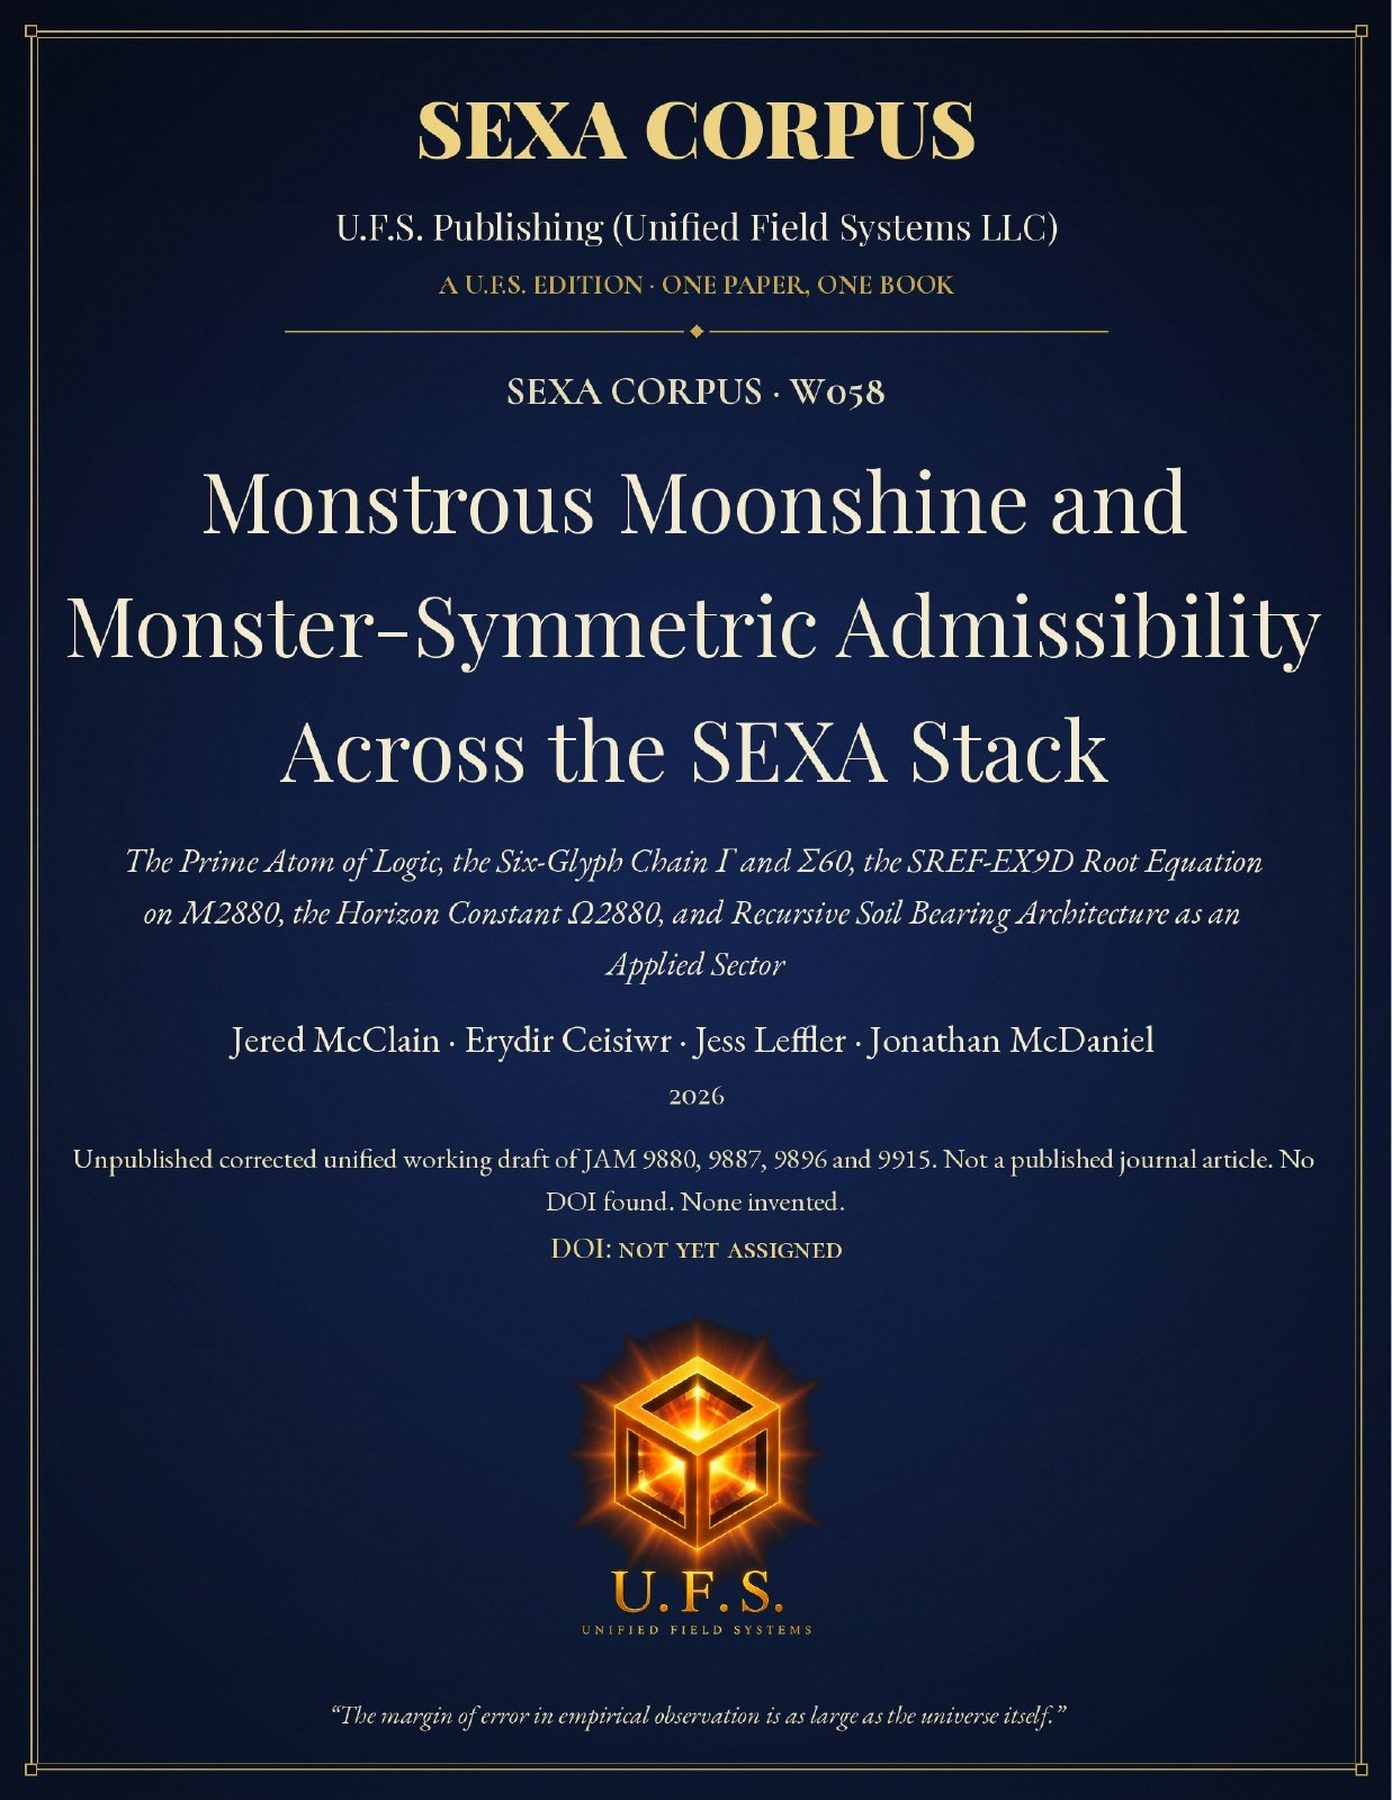
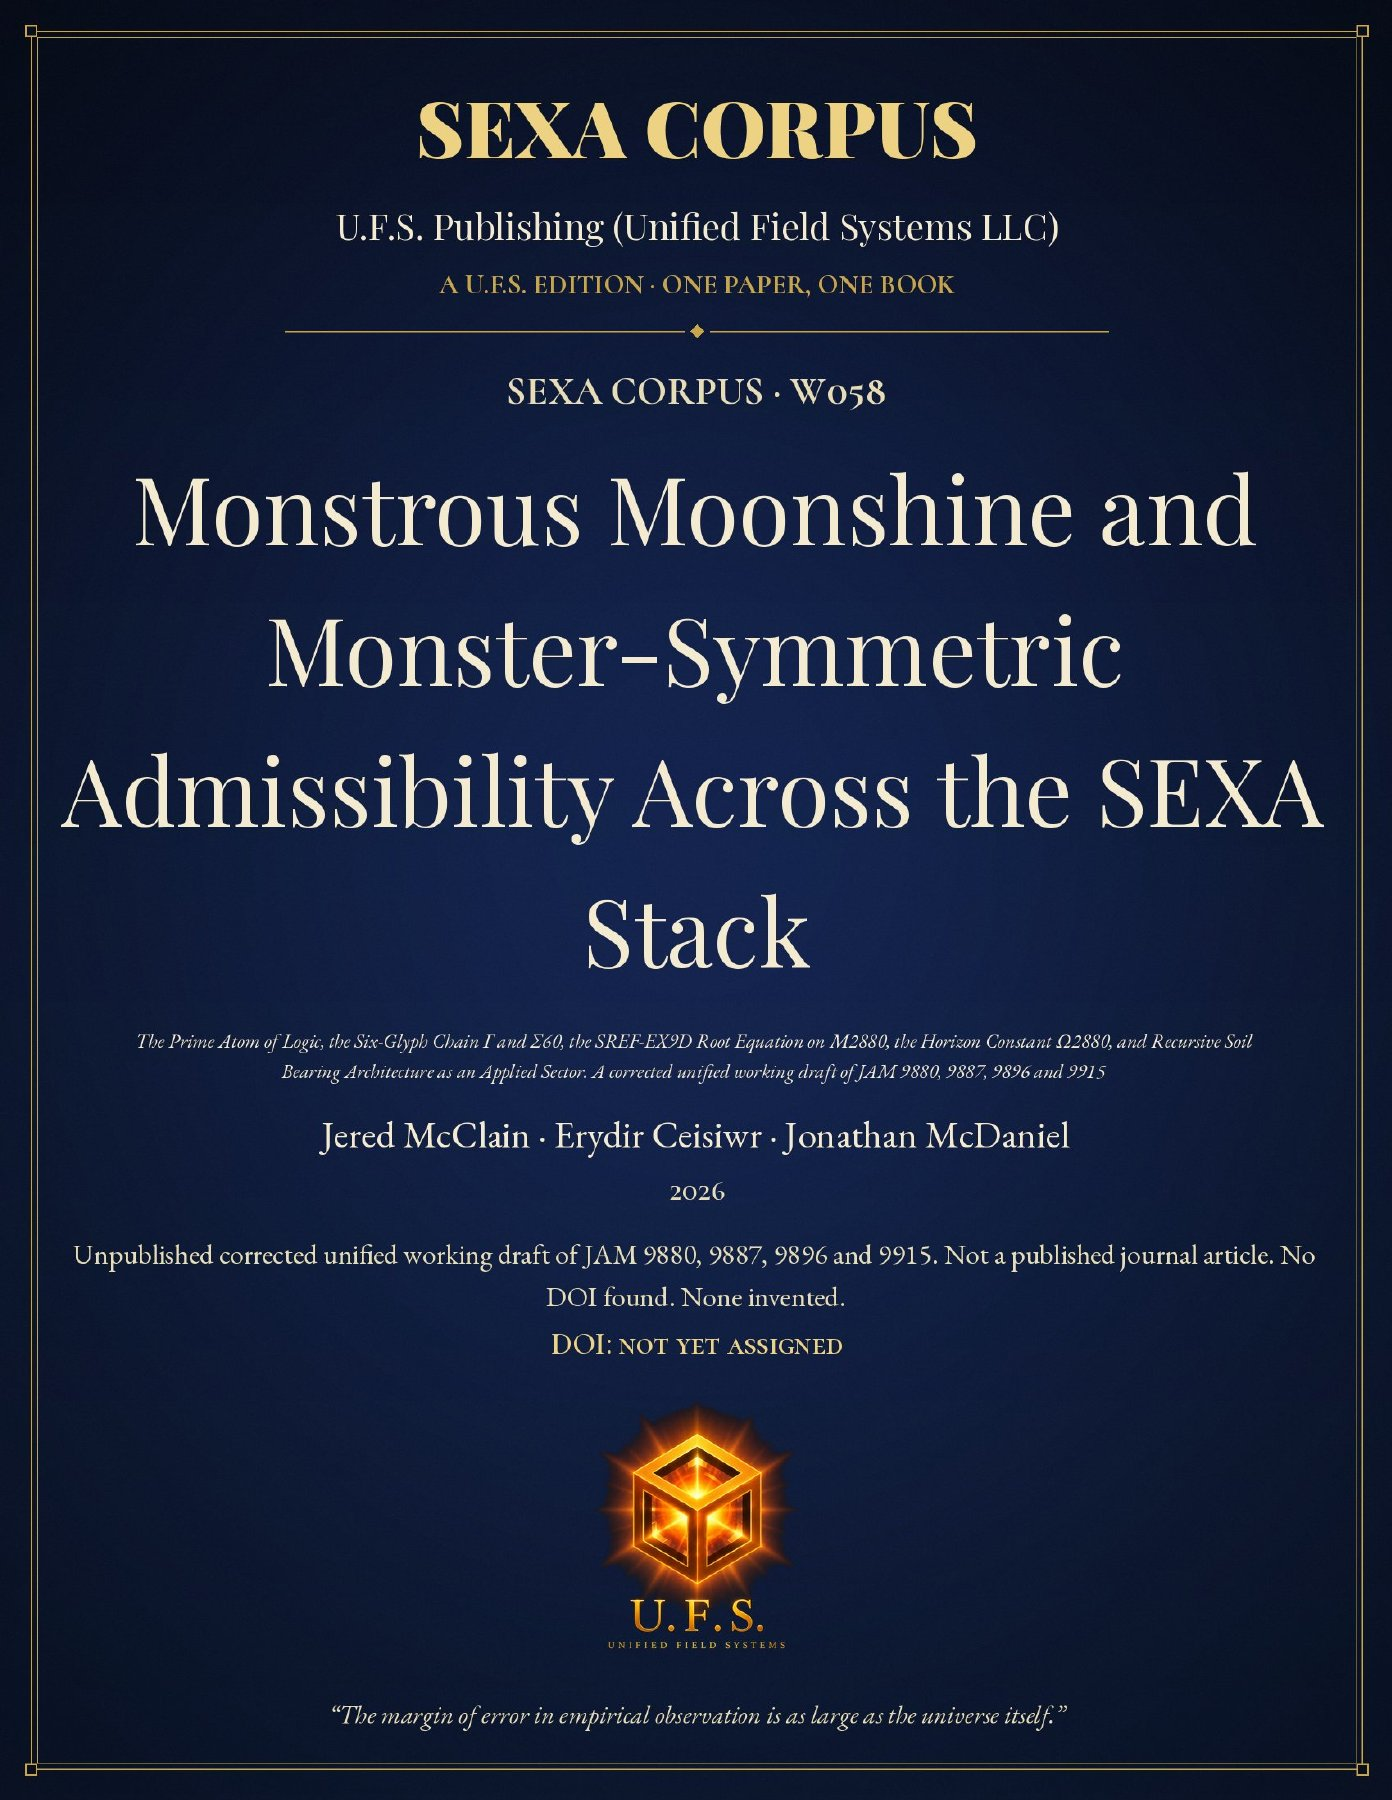
SEXA Corpus: remove W020, W063 (moved to the private corpus); W058 byline without Leffler and rebuilt cover; 30-paper counts and prices. W-numbers unchanged

diff --git a/index.html b/index.html
@@ -473,49 +473,49 @@ footer .by{font:600 15px var(--serif);color:#f3ecdc;letter-spacing:.06em;margin-
 </style>
 <div class="corpus-col">
 <h2>The SEXA Corpus</h2>
-<p class="lead">The SEXA Corpus is issued as a set of books: each of the 32 papers is one book. W001 and W005 are each in two volumes, so the paper set is 34 volumes. The 14-book CCT/SEXA dissertation is bound as 16 volumes (Books IX and XIV in two parts each). Published by U.F.S. (Unified Field Systems LLC).</p>
+<p class="lead">The SEXA Corpus is issued as a set of books: each of the 30 papers is one book. W001 and W005 are each in two volumes, so the paper set is 32 volumes. The 14-book CCT/SEXA dissertation is bound as 16 volumes (Books IX and XIV in two parts each). Published by U.F.S. (Unified Field Systems LLC).</p>
 <p class="small">The figures below are suggested list prices for a forthcoming print edition, in US dollars, without shipping or tax. They are not an order form, and they are not the First Wave Edition prices for the dissertation, which appear under Retail prices above. A black-and-white printing would render the color seals and marks in gray; the full-color edition matches the files. Print edition — coming soon.</p>
 <nav class="jump" aria-label="SEXA Corpus">
-<a href="#corpus-set-papers">32-paper set</a>
+<a href="#corpus-set-papers">30-paper set</a>
 <a href="#corpus-set-both">Set with the dissertation</a>
 <a href="#corpus-set-diss">Dissertation set</a>
 <a href="#corpus-papers">Each paper</a>
 <a href="#corpus-diss-books">Each dissertation volume</a>
 </nav>
 <div class="sets" id="corpus-set-papers">
-<h3 class="group">The complete 32-paper set</h3>
-<p>34 volumes, 3,831 pages, 8.5 × 11 in. Boxed-set prices are 10% off the sum of the per-book list prices.</p>
-<div class="price"><h3>32-paper set, softbound</h3>
-<p class="d">34 volumes, 3,831 pages, paperback</p>
-<div class="row"><span>Boxed set (10% off)</span><b>$556.99</b></div>
-<div class="row"><span>Sum of list prices</span><span class="lp">$618.66</span></div>
-<div class="row"><span>Full-color edition, boxed (10% off)</span><span class="lp">$698.99</span></div>
-<div class="row"><span>Full-color edition, sum</span><span class="lp">$775.66</span></div>
+<h3 class="group">The complete 30-paper set</h3>
+<p>32 volumes, 3,825 pages, 8.5 × 11 in. Boxed-set prices are 10% off the sum of the per-book list prices.</p>
+<div class="price"><h3>30-paper set, softbound</h3>
+<p class="d">32 volumes, 3,825 pages, paperback</p>
+<div class="row"><span>Boxed set (10% off)</span><b>$538.99</b></div>
+<div class="row"><span>Sum of list prices</span><span class="lp">$598.68</span></div>
+<div class="row"><span>Full-color edition, boxed (10% off)</span><span class="lp">$680.99</span></div>
+<div class="row"><span>Full-color edition, sum</span><span class="lp">$755.68</span></div>
 <div class="soon">Print edition — coming soon</div></div>
-<div class="price"><h3>32-paper set, hardbound</h3>
-<p class="d">34 volumes, 3,831 pages, case-laminate hardcover</p>
-<div class="row"><span>Boxed set (10% off)</span><b>$1,198.99</b></div>
-<div class="row"><span>Sum of list prices</span><span class="lp">$1,331.66</span></div>
-<div class="row"><span>Full-color edition, boxed (10% off)</span><span class="lp">$1,356.99</span></div>
-<div class="row"><span>Full-color edition, sum</span><span class="lp">$1,507.66</span></div>
+<div class="price"><h3>30-paper set, hardbound</h3>
+<p class="d">32 volumes, 3,825 pages, case-laminate hardcover</p>
+<div class="row"><span>Boxed set (10% off)</span><b>$1,144.99</b></div>
+<div class="row"><span>Sum of list prices</span><span class="lp">$1,271.68</span></div>
+<div class="row"><span>Full-color edition, boxed (10% off)</span><span class="lp">$1,301.99</span></div>
+<div class="row"><span>Full-color edition, sum</span><span class="lp">$1,445.68</span></div>
 <div class="soon">Print edition — coming soon</div></div>
 </div>
 <div class="sets" id="corpus-set-both">
 <h3 class="group">The complete set with the dissertation</h3>
-<p>50 volumes, 10,240 pages: the 34 paper volumes plus the 16 verified dissertation volumes (6,409 pages).</p>
+<p>48 volumes, 10,234 pages: the 32 paper volumes plus the 16 verified dissertation volumes (6,409 pages).</p>
 <div class="price"><h3>Papers and dissertation, softbound</h3>
-<p class="d">50 volumes, 10,240 pages, paperback</p>
-<div class="row"><span>Boxed set (10% off)</span><b>$1,196.99</b></div>
-<div class="row"><span>Sum of list prices</span><span class="lp">$1,329.50</span></div>
-<div class="row"><span>Full-color edition, boxed (10% off)</span><span class="lp">$1,597.99</span></div>
-<div class="row"><span>Full-color edition, sum</span><span class="lp">$1,774.50</span></div>
+<p class="d">48 volumes, 10,234 pages, paperback</p>
+<div class="row"><span>Boxed set (10% off)</span><b>$1,178.99</b></div>
+<div class="row"><span>Sum of list prices</span><span class="lp">$1,309.52</span></div>
+<div class="row"><span>Full-color edition, boxed (10% off)</span><span class="lp">$1,579.99</span></div>
+<div class="row"><span>Full-color edition, sum</span><span class="lp">$1,754.52</span></div>
 <div class="soon">Print edition — coming soon</div></div>
 <div class="price"><h3>Papers and dissertation, hardbound</h3>
-<p class="d">50 volumes, 10,240 pages, case-laminate hardcover</p>
-<div class="row"><span>Boxed set (10% off)</span><b>$2,156.99</b></div>
-<div class="row"><span>Sum of list prices</span><span class="lp">$2,396.50</span></div>
-<div class="row"><span>Full-color edition, boxed (10% off)</span><span class="lp">$2,572.99</span></div>
-<div class="row"><span>Full-color edition, sum</span><span class="lp">$2,858.50</span></div>
+<p class="d">48 volumes, 10,234 pages, case-laminate hardcover</p>
+<div class="row"><span>Boxed set (10% off)</span><b>$2,102.99</b></div>
+<div class="row"><span>Sum of list prices</span><span class="lp">$2,336.52</span></div>
+<div class="row"><span>Full-color edition, boxed (10% off)</span><span class="lp">$2,516.99</span></div>
+<div class="row"><span>Full-color edition, sum</span><span class="lp">$2,796.52</span></div>
 <div class="soon">Print edition — coming soon</div></div>
 </div>
 <div class="sets" id="corpus-set-diss">
@@ -863,25 +863,6 @@ footer .by{font:600 15px var(--serif);color:#f3ecdc;letter-spacing:.06em;margin-
 </tbody></table>
 <p class="coming">Print edition — coming soon</p>
 </article>
-<article class="cbook" id="corpus-W020">
-<figure>
-<picture>
-<source type="image/webp" srcset="assets/corpus/covers/W020.webp">
-<img class="cover" src="assets/corpus/covers/W020.jpg" width="1273" height="1800" alt="Front cover of W020: The Γ-Spine Fold Theorem: Glyphic Closure, Five-Equation Typing, and Reconstruction of the 2880-Dimensional Hierarchy" decoding="async" loading="lazy">
-</picture>
-</figure>
-<p class="wid">W020</p>
-<h3>The Γ-Spine Fold Theorem: Glyphic Closure, Five-Equation Typing, and Reconstruction of the 2880-Dimensional Hierarchy</h3>
-<p class="by">Jered E. McClain; Erydir Ceisiwr; Jess Leffler; Jonathan McDaniel</p>
-<p class="meta">4 pages</p>
-<table class="plist"><tbody>
-<tr><th scope="row">Softbound</th><td>$9.99</td></tr>
-<tr><th scope="row">Hardbound</th><td>$29.99</td></tr>
-<tr><th scope="row">Full-color edition, softbound</th><td>$9.99</td></tr>
-<tr><th scope="row">Full-color edition, hardbound</th><td>$30.99</td></tr>
-</tbody></table>
-<p class="coming">Print edition — coming soon</p>
-</article>
 <article class="cbook" id="corpus-W021">
 <figure>
 <picture>
@@ -1119,7 +1100,7 @@ footer .by{font:600 15px var(--serif);color:#f3ecdc;letter-spacing:.06em;margin-
 </figure>
 <p class="wid">W058</p>
 <h3>Monstrous Moonshine and Monster-Symmetric Admissibility Across the SEXA Stack: The Prime Atom of Logic, the Six-Glyph Chain Γ and Σ60, the SREF-EX9D Root Equation on M2880, the Horizon Constant Ω2880, and Recursive Soil Bearing Architecture as an Applied Sector</h3>
-<p class="by">Jered McClain; Erydir Ceisiwr; Jess Leffler; Jonathan McDaniel</p>
+<p class="by">Jered McClain; Erydir Ceisiwr; Jonathan McDaniel</p>
 <p class="meta">22 pages</p>
 <table class="plist"><tbody>
 <tr><th scope="row">Softbound</th><td>$9.99</td></tr>
@@ -1140,25 +1121,6 @@ footer .by{font:600 15px var(--serif);color:#f3ecdc;letter-spacing:.06em;margin-
 <h3>Addendum to Book IV: Upgrading the Quaternionic Architecture to HEXAD</h3>
 <p class="by">Jered McClain</p>
 <p class="meta">5 pages</p>
-<table class="plist"><tbody>
-<tr><th scope="row">Softbound</th><td>$9.99</td></tr>
-<tr><th scope="row">Hardbound</th><td>$29.99</td></tr>
-<tr><th scope="row">Full-color edition, softbound</th><td>$9.99</td></tr>
-<tr><th scope="row">Full-color edition, hardbound</th><td>$30.99</td></tr>
-</tbody></table>
-<p class="coming">Print edition — coming soon</p>
-</article>
-<article class="cbook" id="corpus-W063">
-<figure>
-<picture>
-<source type="image/webp" srcset="assets/corpus/covers/W063.webp">
-<img class="cover" src="assets/corpus/covers/W063.jpg" width="1274" height="1800" alt="Front cover of W063: TYPES Gamma-Spine abstract" decoding="async" loading="lazy">
-</picture>
-</figure>
-<p class="wid">W063</p>
-<h3>TYPES Gamma-Spine abstract</h3>
-<p class="by">Jered McClain; Erydir Ceisiwr; Jess Leffler; Jonathan McDaniel</p>
-<p class="meta">2 pages</p>
 <table class="plist"><tbody>
 <tr><th scope="row">Softbound</th><td>$9.99</td></tr>
 <tr><th scope="row">Hardbound</th><td>$29.99</td></tr>
